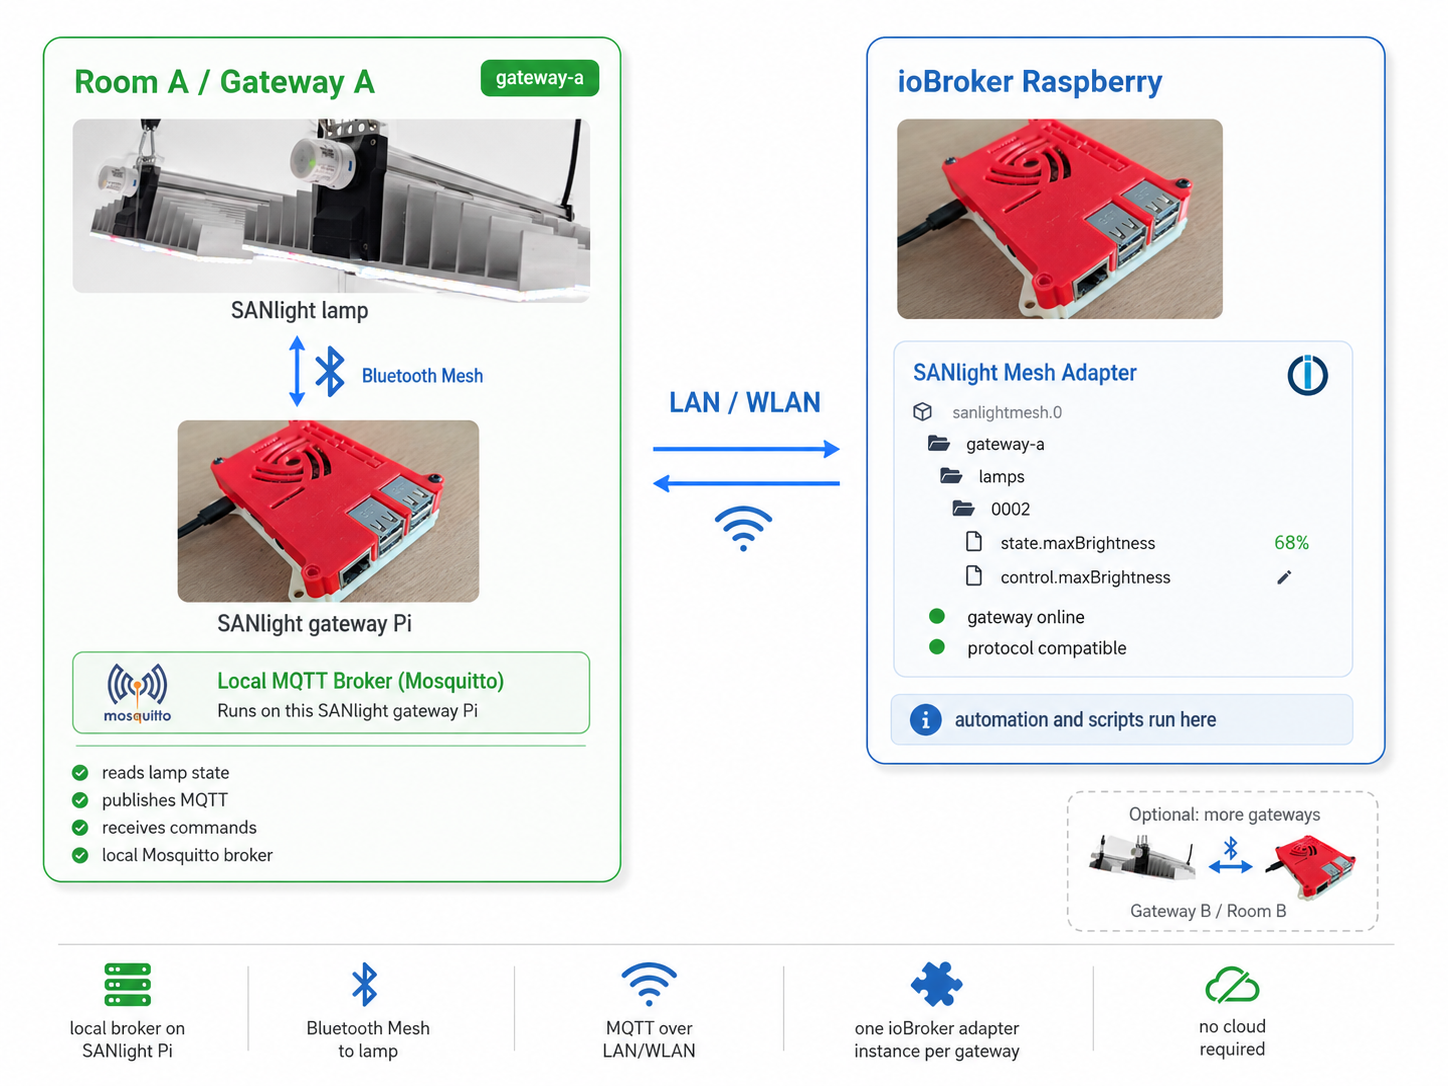
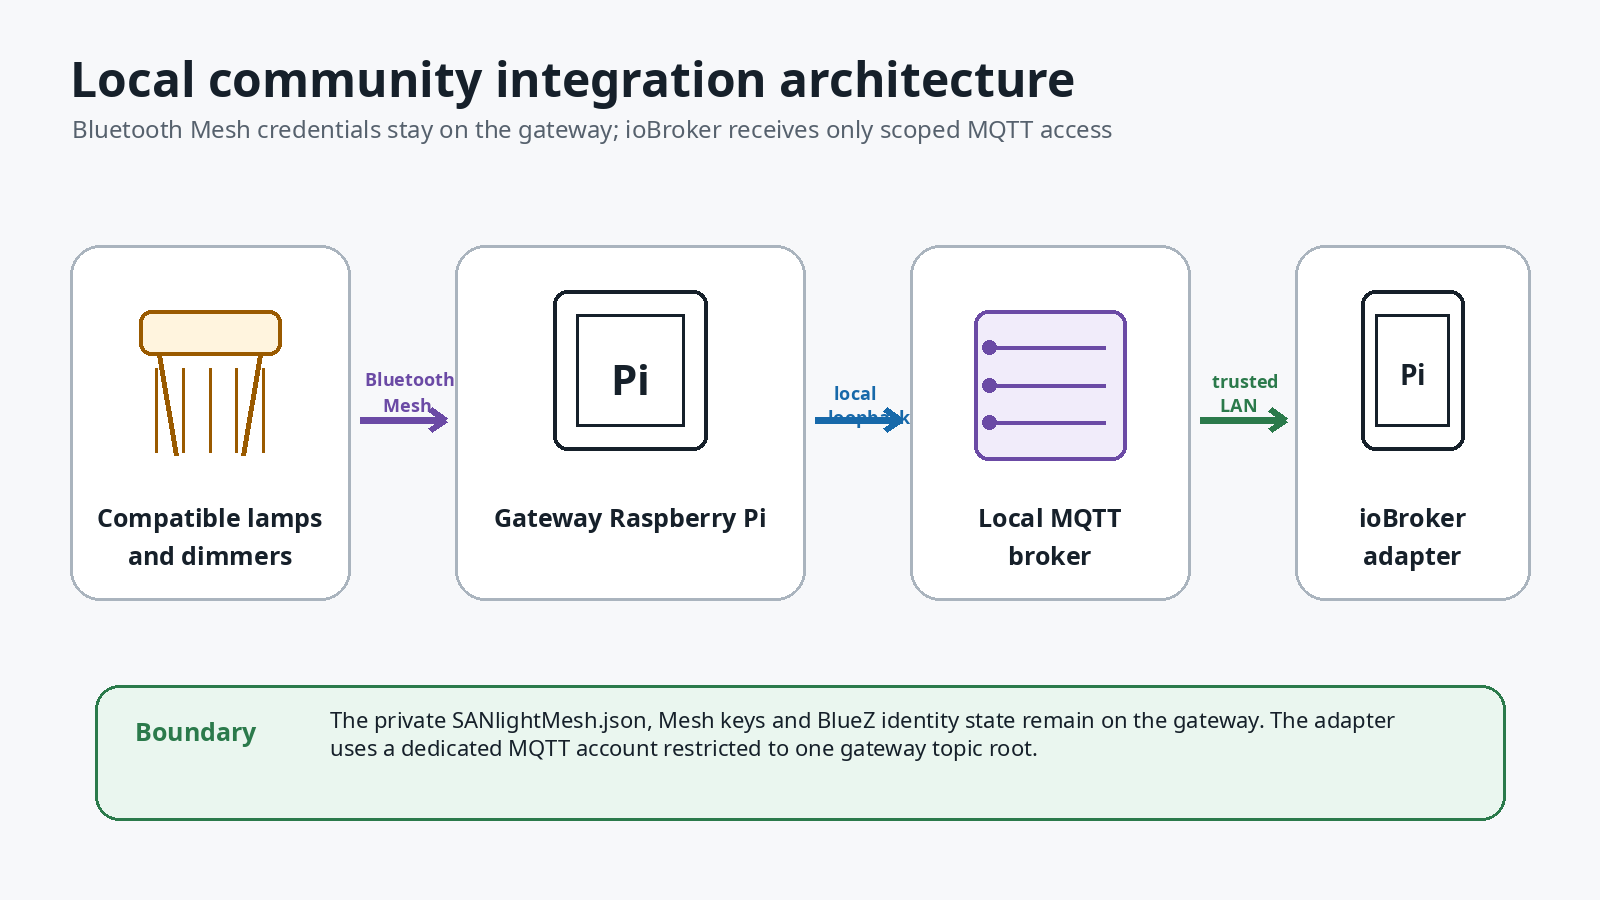
Clarify support boundaries and replace external visuals

diff --git a/docs/HISTORY_AUDIT.md b/docs/HISTORY_AUDIT.md
@@ -1,0 +1,52 @@
+# Public history and release audit
+
+This repository includes `scripts/audit-public-history.sh` as a maintainer review
+aid. It inventories all objects reachable from the local Git references and
+flags:
+
+- private-export, key, firmware and package-like filenames;
+- historical documentation images;
+- blobs of at least 1 MiB;
+- selected private-key and labelled-secret patterns in text blobs;
+- branches, remote-tracking references and tags included in the scan.
+
+Run it from a complete local checkout:
+
+```bash
+git fetch --all --tags --prune
+bash scripts/audit-public-history.sh
+```
+
+The report and supporting inventories are written below `.git/history-audit/`
+by default, so they remain outside the working tree and cannot be committed
+accidentally. A different output directory may be passed as the first argument.
+
+## Scope limits
+
+The scanner is conservative and produces false positives. Documentation can
+legitimately contain words such as `AppKey`, placeholder values or password
+filenames. Every match requires manual review.
+
+The scanner only sees objects available in the local clone and reachable from
+its references. Before relying on it, fetch all branches and tags. GitHub release
+assets are separate from Git history and must be downloaded and inspected
+independently. Automatically generated source archives reflect the commit
+currently referenced by a tag; manually uploaded archives remain separate
+release assets.
+
+## Decision order
+
+1. **Real credential found:** rotate or invalidate it first. Deleting a release,
+   branch or commit does not make an already copied credential safe.
+2. **Private export or runtime state found:** preserve a private recovery copy,
+   remove the public artifact and plan a rewrite covering every affected ref.
+3. **Third-party screenshot, logo or product photograph only:** replace it on
+   `main`. Decide separately whether the historical copy justifies a targeted
+   rewrite; do not squash unrelated engineering history by default.
+4. **No sensitive finding:** keep the history. Rewriting public tags and releases
+   creates its own compatibility and provenance costs.
+
+Any rewrite should be rehearsed in a disposable clone, followed by a fresh clone
+and a second audit. Prefer removing exact paths or blobs with `git filter-repo`
+over collapsing the repository to one commit. Coordinate tag and release changes
+between the gateway and adapter repositories.

diff --git a/README.md b/README.md
@@ -10,6 +10,19 @@ network and creates normal ioBroker devices, states and controls.
 > Unofficial community project. Not affiliated with or endorsed by SANlight GmbH.
 > The SANlight name is used only to identify compatible products and software.
 
+## Community support
+
+This adapter and its gateway are maintained by
+[Nibbels](https://github.com/Nibbels) as independent community software.
+Questions, defect reports and compatibility findings should go to the
+[central community support thread](https://github.com/Nibbels/ioBroker.sanlightmesh/issues/1).
+
+Please do not ask SANlight product support to troubleshoot this adapter or the
+community gateway. These components are not SANlight products; installation,
+operation and troubleshooting are handled through the community project.
+Security-sensitive findings should follow
+[SECURITY.md](SECURITY.md).
+
 ## Architecture
 
 ![Community gateway Raspberry Pi for SANlight Mesh with local Mosquitto broker connected over LAN or WLAN to an ioBroker Raspberry Pi](docs/sanlight_mesh_mqtt_iobroker_architecture.png)
@@ -31,6 +44,12 @@ Gateway repository:
 ```text
 https://github.com/Nibbels/sanlight-mesh-mqtt-gateway
 ```
+
+Before enabling write controls or automation, confirm that an untouched offline
+backup of the original `SANlightMesh.json` and any existing gateway state is
+available on the gateway side. Incorrect automation can change lamp brightness
+or lighting periods. Begin with the read-only test below and use only small,
+reversible changes until the complete path has been verified.
 
 ## Install the adapter
 
@@ -189,6 +208,8 @@ the adapter remains pre-1.0.
 - [INSTRUCTIONS.md](INSTRUCTIONS.md) — operation, updates and troubleshooting
 - [docs/OBJECT_MODEL.md](docs/OBJECT_MODEL.md) — complete ioBroker object model
 - [SECURITY.md](SECURITY.md) — credentials and network boundaries
+- [docs/ASSET_NOTICES.md](docs/ASSET_NOTICES.md) — documentation-image provenance
+- [docs/HISTORY_AUDIT.md](docs/HISTORY_AUDIT.md) — maintainer history and release audit
 - [CHANGELOG.md](CHANGELOG.md) — notable changes
 - [docs/RELEASING.md](docs/RELEASING.md) — maintainer release checklist
 

diff --git a/docs/ASSET_NOTICES.md b/docs/ASSET_NOTICES.md
@@ -1,0 +1,13 @@
+# Documentation asset notices
+
+`sanlight_mesh_mqtt_iobroker_architecture.png` is an original neutral schematic
+created for this community project. It contains no official app screenshot,
+manufacturer logo, product photograph, copied website graphic or third-party
+icon pack. Product and software names appear only as descriptive text needed to
+explain compatibility and system boundaries.
+
+When replacing or adding documentation images, use original diagrams or assets
+with clearly documented redistribution rights. Do not commit screenshots,
+product photographs or logos copied from vendor applications, websites or
+marketing material without an appropriate permission or a separately reviewed
+legal basis.

diff --git a/SECURITY.md b/SECURITY.md
@@ -63,6 +63,16 @@ The committed `package-lock.json` must use the public npm registry and must not
 contain private/internal build-environment URLs. Package validation enforces
 this boundary.
 
+## Project support
+
+Normal installation questions, defect reports and compatibility findings belong
+in the
+[central community support thread](https://github.com/Nibbels/ioBroker.sanlightmesh/issues/1).
+Do not include credentials, Mesh keys or private exports there.
+
+This adapter and its gateway are independent community software. Please do not
+ask SANlight product support to troubleshoot them.
+
 ## Reporting
 
 Open a GitHub security advisory or contact the repository owner privately. Do